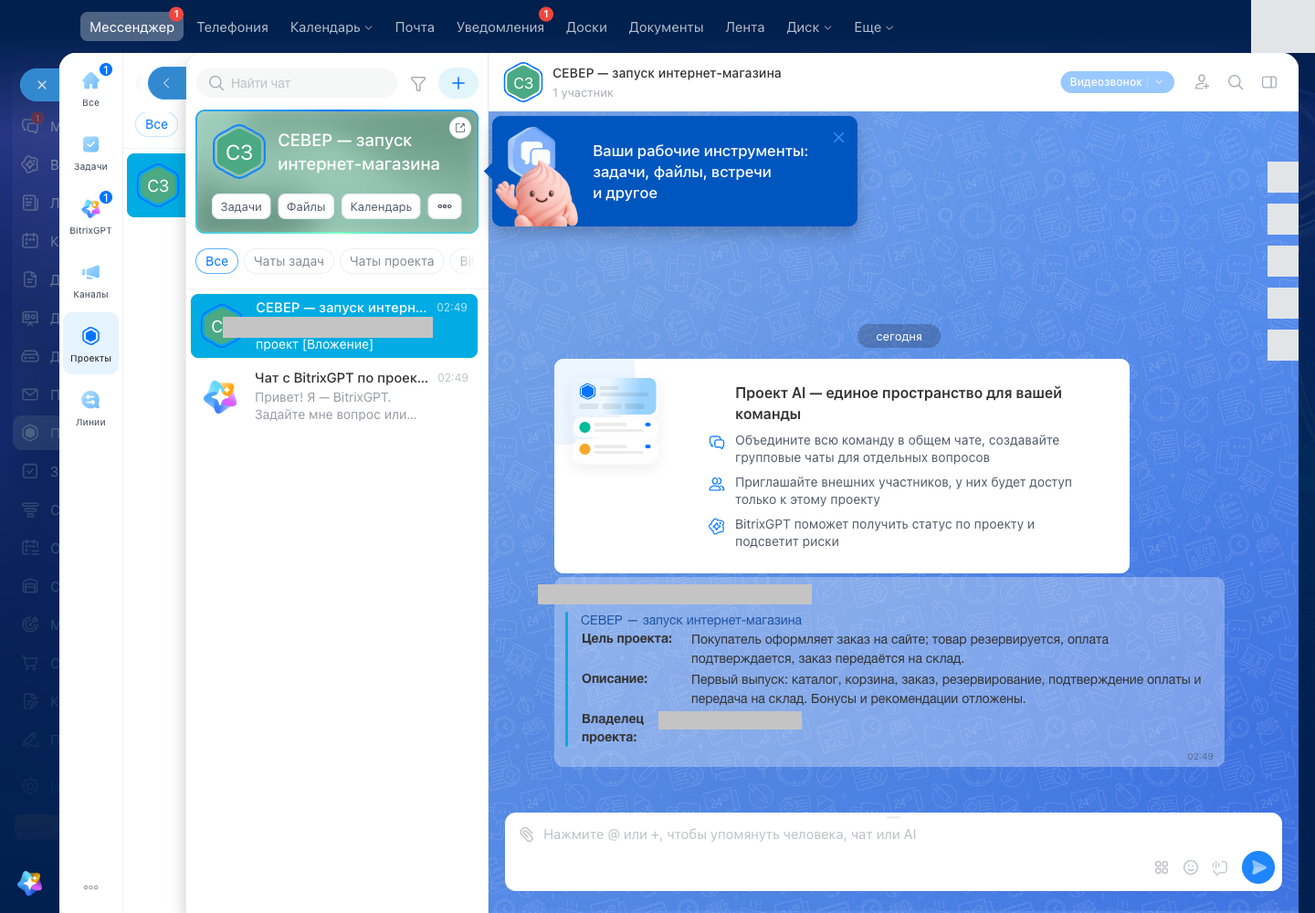
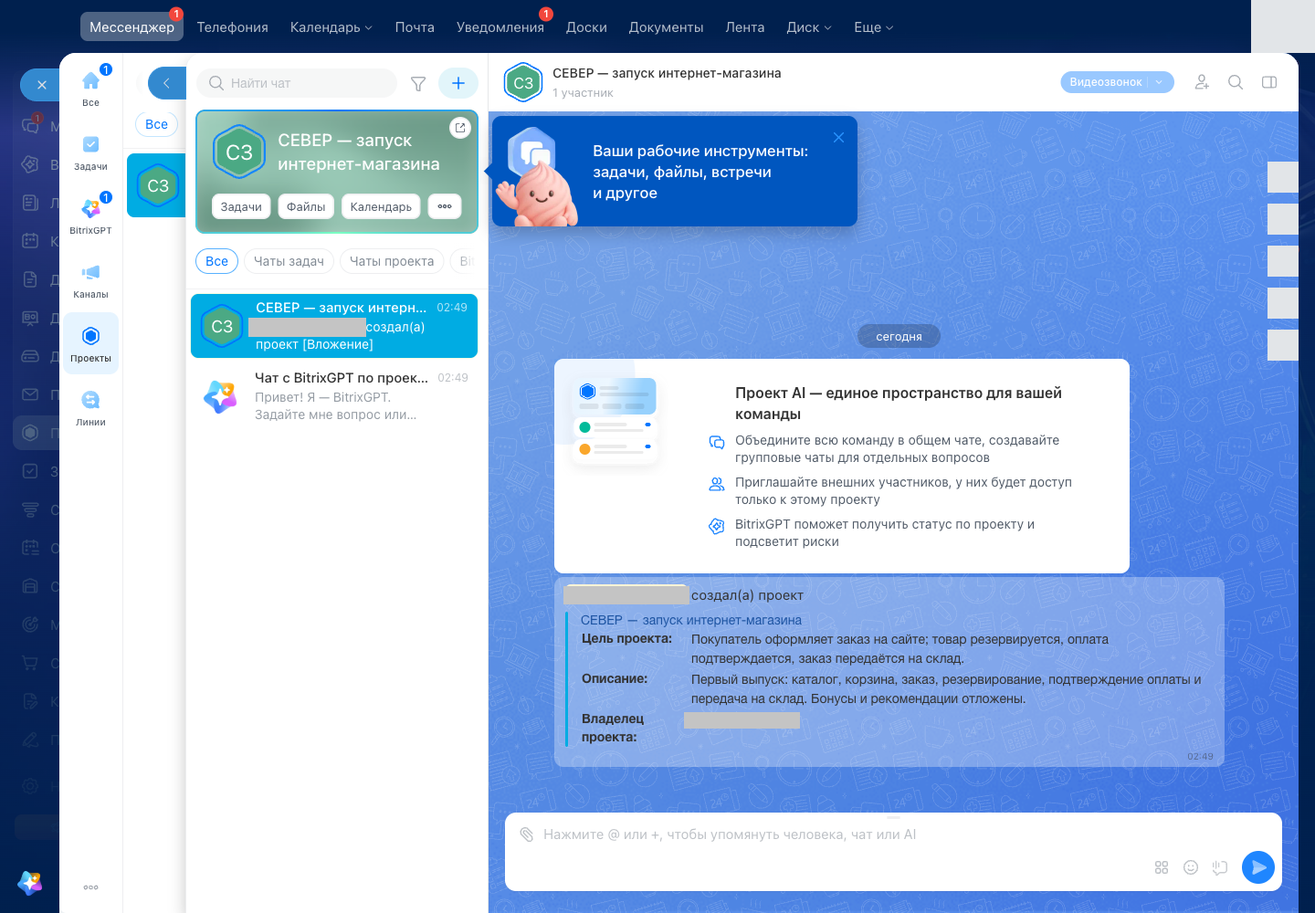
Refine Bitrix24 practice introduction and screenshot masking

diff --git a/upravlenie-programmnymi-proektami/lessons/02-bitrix24/index.html b/upravlenie-programmnymi-proektami/lessons/02-bitrix24/index.html
@@ -6,11 +6,13 @@
 <div class="running"><p class="eyebrow"><a href="../../index.html">Управление программными проектами</a></p><p class="running__folio">02 / 18 · 90 минут</p></div>
 <header class="chapter-head"><span class="chapter-num">Практика 2 · интернет-магазин «СЕВЕР»</span><h1>Проект, задача<br>и результат в Битрикс24</h1><p class="lead">Продолжаем запуск магазина рюкзаков. Создадим пространство проекта, опишем правила резервирования товара и сохраним результат в задаче.</p></header>
 <div class="practice-outcome"><span class="label">Результат занятия</span><div class="cards"><div><strong>Проект</strong><p>Цель и границы первого выпуска.</p></div><div><strong>Задача</strong><p>Условие, исполнитель и срок.</p></div><div><strong>Результат</strong><p>Правила и два проверяемых примера.</p></div></div></div>
-<nav class="contents" aria-label="Содержание"><b>Маршрут работы</b><ol><li><a href="#prepare">Доступ и тариф</a></li><li><a href="#project">Создание проекта</a></li><li><a href="#task">Постановка задачи</a></li><li><a href="#work">Выполнение и результат</a></li><li><a href="#finish">Завершение и поиск</a></li><li><a href="#extended">Расширенные возможности</a></li><li><a href="#practice">Самостоятельная работа</a></li><li><a href="#glossary">Словарь и источники</a></li></ol></nav>
-<section id="prepare"><h2><span class="sec">01</span>Доступ и тариф</h2>
-<p>В первой лекции два покупателя претендовали на последний рюкзак. Теперь оформим работу аналитика: нужно зафиксировать правила, по которым магазин резервирует товар. Проект объединит связанные задачи, а карточка задачи сохранит условия выполнения.</p>
-<div class="cards two"><div class="tile"><h3>Перед началом</h3><p>Нужен вход в согласованный с преподавателем портал Битрикс24. На кадрах уже выполнен вход. Регистрация, создание аккаунта и приглашение сотрудников в маршрут не входят.</p><p>При индивидуальной работе назначьте исполнителем себя. Для командной проверки используйте уже добавленного участника.</p></div><div class="tile"><h3>Что проверено</h3><p>Кадры сняты 23.11.2026 в портале с активным деморежимом. Официальная тарифная страница включает «Задачи и Проекты» в бесплатный план. Доступность каждого показанного элемента на бесплатном плане отдельно не подтверждена.</p><p>Демо оставлено включённым: интерфейс предупреждает, что повторная активация после отключения невозможна. Покупка тарифа для занятия не требуется.</p></div></div>
-<p>Названия элементов могут меняться после обновлений. Если нужной функции нет или появляется предложение оплаты, зафиксируйте отличие и согласуйте дальнейший шаг с преподавателем. Сначала создадим закрытое пространство для работы над магазином.</p></section>
+<nav class="contents" aria-label="Содержание"><b>Маршрут работы</b><ol><li><a href="#prepare">Знакомство и регистрация</a></li><li><a href="#project">Создание проекта</a></li><li><a href="#task">Постановка задачи</a></li><li><a href="#work">Выполнение и результат</a></li><li><a href="#finish">Завершение и поиск</a></li><li><a href="#extended">Расширенные возможности</a></li><li><a href="#practice">Самостоятельная работа</a></li><li><a href="#glossary">Словарь и источники</a></li></ol></nav>
+<section id="prepare"><h2><span class="sec">01</span>Битрикс24: знакомство и регистрация</h2>
+<p>В первой лекции два покупателя претендовали на последний рюкзак. Теперь оформим работу аналитика: зафиксируем правила резервирования товара.</p>
+<div class="service-intro"><img class="service-logo" src="../01-vvedenie/assets/bitrix24.svg" alt="Битрикс24" width="174" height="33"><p>Битрикс24 — сервис для совместной работы. В нём команда создаёт проекты, назначает задачи, задаёт сроки и обсуждает результаты. У проекта есть общее пространство, а у каждой задачи — карточка с условиями и перепиской.</p></div>
+<p><strong>Перед началом зарегистрируйтесь на <a href="https://www.bitrix24.ru/">сайте Битрикс24</a>.</strong> Если преподаватель выдал приглашение в общий портал, используйте его. Портал — пространство вашей команды в сервисе. Для самостоятельной работы создайте свой портал при регистрации.</p>
+<p>На кадрах вход уже выполнен. При индивидуальной работе назначайте исполнителем себя. В общем портале используйте свою учётную запись и согласуйте исполнителя с преподавателем.</p>
+<p>Для занятия не нужно подключать платные услуги. Если сервис предлагает оплату или нужный элемент недоступен, обратитесь к преподавателю. После входа откройте портал и создайте проект.</p></section>
 <section id="project"><h2><span class="sec">02</span>Создание проекта</h2><p>У магазина есть общий результат: покупатель оформляет заказ, а склад получает оплаченный товар к отгрузке. Запишем эту цель и состав первого выпуска в проекте.</p><ol class="steps"><li><b>Откройте «Проекты»</b><p>В левом меню найдите раздел «Проекты» и откройте его.</p><figure class="shot"><a href="assets/01-projects-menu.png" target="_blank" rel="noopener"><img src="assets/01-projects-menu.png" alt="Откройте «Проекты»" width="1440" height="1000" loading="lazy"></a><figcaption><strong>Откройте «Проекты»</strong> Красная рамка показывает пункт навигации. Нажмите изображение, чтобы открыть исходный размер.</figcaption></figure></li><li><b>Начните создание</b><p>На странице проектов нажмите «Создать».</p><figure class="shot"><a href="assets/02-create-project.png" target="_blank" rel="noopener"><img src="assets/02-create-project.png" alt="Начните создание" width="1440" height="1000" loading="lazy"></a><figcaption><strong>Начните создание</strong> Выделена кнопка над списком проектов. Нажмите изображение, чтобы открыть исходный размер.</figcaption></figure></li><li><b>Введите название</b><p>Укажите: <strong>СЕВЕР — запуск интернет-магазина</strong>.</p><figure class="shot"><a href="assets/03-project-name.png" target="_blank" rel="noopener"><img src="assets/03-project-name.png" alt="Введите название" width="1440" height="1000" loading="lazy"></a><figcaption><strong>Введите название</strong> Поле названия находится в верхней части формы. Надпись «Проекты AI» относится к текущему интерфейсу сервиса. Нажмите изображение, чтобы открыть исходный размер.</figcaption></figure></li><li><b>Запишите цель</b><p>В поле «Цель проекта» введите: <em>Покупатель оформляет заказ на сайте; товар резервируется, оплата подтверждается, заказ передаётся на склад.</em></p><figure class="shot"><a href="assets/04-project-goal.png" target="_blank" rel="noopener"><img src="assets/04-project-goal.png" alt="Запишите цель" width="1440" height="1000" loading="lazy"></a><figcaption><strong>Запишите цель</strong> Цель описывает ожидаемый результат для бизнеса. Нажмите изображение, чтобы открыть исходный размер.</figcaption></figure></li><li><b>Определите границы выпуска</b><p>В описание внесите: <em>Первый выпуск: каталог, корзина, заказ, резервирование, подтверждение оплаты и передача на склад. Бонусы и рекомендации отложены.</em></p><figure class="shot"><a href="assets/05-project-description.png" target="_blank" rel="noopener"><img src="assets/05-project-description.png" alt="Определите границы выпуска" width="1440" height="1000" loading="lazy"></a><figcaption><strong>Определите границы выпуска</strong> Описание отделяет согласованный объём от будущих пожеланий. Нажмите изображение, чтобы открыть исходный размер.</figcaption></figure></li><li><b>Проверьте доступ</b><p>Выберите тип «Закрытый», если он ещё не выбран. Поля добавления участников оставьте без изменений.</p><figure class="shot"><a href="assets/06-project-private.png" target="_blank" rel="noopener"><img src="assets/06-project-private.png" alt="Проверьте доступ" width="1440" height="1000" loading="lazy"></a><figcaption><strong>Проверьте доступ</strong> В форме указано: доступ к содержимому закрытого проекта предоставляется по приглашению. Нажмите изображение, чтобы открыть исходный размер.</figcaption></figure></li><li><b>Создайте проект</b><p>Нажмите «Создать проект». В этом маршруте новые приглашения не отправляются.</p><figure class="shot"><a href="assets/07-project-save.png" target="_blank" rel="noopener"><img src="assets/07-project-save.png" alt="Создайте проект" width="1440" height="1000" loading="lazy"></a><figcaption><strong>Создайте проект</strong> Кнопка находится внизу формы. Нажмите изображение, чтобы открыть исходный размер.</figcaption></figure></li><li><b>Проверьте созданный проект</b><p>Найдите название, цель и описание в сообщении о создании. Проверьте, что сохранился введённый текст.</p><figure class="shot"><a href="assets/08-project-created.png" target="_blank" rel="noopener"><img src="assets/08-project-created.png" alt="Проверьте созданный проект" width="1440" height="1000" loading="lazy"></a><figcaption><strong>Проверьте созданный проект</strong> Открыто пространство проекта. Здесь доступны задачи, файлы, календарь и обсуждение. Нажмите изображение, чтобы открыть исходный размер.</figcaption></figure></li></ol><p>Цель и границы проекта сохранены. Для выполнения отдельной части работы добавим задачу с конкретным результатом.</p></section>
 <section id="task"><h2><span class="sec">03</span>Постановка задачи</h2>
 <p>Название «Разобраться с остатками» оставляет много трактовок. Укажем, какой текст нужно подготовить и по чему его проверять. Постановщик формулирует работу, исполнитель отвечает за её выполнение. В индивидуальном примере обе роли выполняет один человек.</p>
@@ -29,7 +31,7 @@
 <li><b>Откройте выбор исполнителя</b><p>Нажмите имя в строке «Исполнитель».</p><figure class="shot"><a href="assets/13-executor-open.png" target="_blank" rel="noopener"><img src="assets/13-executor-open.png" alt="Откройте выбор исполнителя" width="1440" height="1000" loading="lazy"></a><figcaption><strong>Откройте выбор исполнителя</strong> Открывается выбор участника, которому поручается задача. Нажмите изображение, чтобы открыть исходный размер.</figcaption></figure></li>
 <li><b>Проверьте исполнителя</b><p>Найдите свою учётную запись. В этом примере она уже выбрана. Оставьте выбор и нажмите Esc, чтобы закрыть список.</p><figure class="shot"><a href="assets/14-executor-select.png" target="_blank" rel="noopener"><img src="assets/14-executor-select.png" alt="Проверьте исполнителя" width="1440" height="1000" loading="lazy"></a><figcaption><strong>Проверьте исполнителя</strong> Обезличенная строка соответствует текущему участнику. Реальные приглашения не нужны. Нажмите изображение, чтобы открыть исходный размер.</figcaption></figure></li>
 <li><b>Откройте крайний срок</b><p>Нажмите дату в строке «Крайний срок».</p><figure class="shot"><a href="assets/15-deadline-open.png" target="_blank" rel="noopener"><img src="assets/15-deadline-open.png" alt="Откройте крайний срок" width="1440" height="1000" loading="lazy"></a><figcaption><strong>Откройте крайний срок</strong> Срок, предложенный сервисом, нужно проверить перед сохранением. Нажмите изображение, чтобы открыть исходный размер.</figcaption></figure></li>
-<li><b>Задайте срок</b><p>Выберите «Завтра» для повторения примера. Если для работы согласован другой срок, используйте его.</p><figure class="shot"><a href="assets/16-deadline-select.png" target="_blank" rel="noopener"><img src="assets/16-deadline-select.png" alt="Задайте срок" width="1440" height="1000" loading="lazy"></a><figcaption><strong>Задайте срок</strong> В съёмке «Завтра» соответствует 24.11.2026. Время — 19:00. Дата относится к съёмке; для своей работы выберите согласованный срок. Нажмите изображение, чтобы открыть исходный размер.</figcaption></figure></li>
+<li><b>Задайте срок</b><p>Выберите «Завтра» для повторения примера. Если для работы согласован другой срок, используйте его.</p><figure class="shot"><a href="assets/16-deadline-select.png" target="_blank" rel="noopener"><img src="assets/16-deadline-select.png" alt="Задайте срок" width="1440" height="1000" loading="lazy"></a><figcaption><strong>Задайте срок</strong> Для своей работы выберите согласованный срок. Нажмите изображение, чтобы открыть исходный размер.</figcaption></figure></li>
 <li><b>Проверьте связь с проектом</b><p>В нижней части формы найдите «СЕВЕР — запуск интернет-магазина».</p><figure class="shot"><a href="assets/17-task-project.png" target="_blank" rel="noopener"><img src="assets/17-task-project.png" alt="Проверьте связь с проектом" width="1440" height="1000" loading="lazy"></a><figcaption><strong>Проверьте связь с проектом</strong> Связь с проектом уже подставлена, поскольку форма открыта из его задач. Нажмите изображение, чтобы открыть исходный размер.</figcaption></figure></li>
 <li><b>Сохраните задачу</b><p>Проверьте название, описание, исполнителя, срок и проект. Нажмите «Создать».</p><figure class="shot"><a href="assets/18-task-save.png" target="_blank" rel="noopener"><img src="assets/18-task-save.png" alt="Сохраните задачу" width="1440" height="1000" loading="lazy"></a><figcaption><strong>Сохраните задачу</strong> Кнопка сохраняет заполненную карточку. Нажмите изображение, чтобы открыть исходный размер.</figcaption></figure></li>
 <li><b>Найдите задачу в списке</b><p>После создания обновите страницу клавишей F5. Нажмите название задачи в списке проекта.</p><figure class="shot"><a href="assets/19-task-list.png" target="_blank" rel="noopener"><img src="assets/19-task-list.png" alt="Найдите задачу в списке" width="1440" height="1000" loading="lazy"></a><figcaption><strong>Найдите задачу в списке</strong> На кадре задача уже сохранена. Открытие названия возвращает к её условиям. Нажмите изображение, чтобы открыть исходный размер.</figcaption></figure></li>
@@ -49,36 +51,36 @@
 <li><b>Введите подготовленные правила</b><p>Вставьте текст результата и оба примера. До отправки проверьте условия снятия резерва.</p><figure class="shot"><a href="assets/23-result-filled.png" target="_blank" rel="noopener"><img src="assets/23-result-filled.png" alt="Введите подготовленные правила" width="1440" height="1000" loading="lazy"></a><figcaption><strong>Введите подготовленные правила</strong> В поле показан подготовленный текст. Длинное сообщение прокручивается внутри поля. Нажмите изображение, чтобы открыть исходный размер.</figcaption></figure></li>
 <li><b>Отправьте сообщение</b><p>Нажмите синюю кнопку отправки справа от поля ввода.</p><figure class="shot"><a href="assets/24-result-send.png" target="_blank" rel="noopener"><img src="assets/24-result-send.png" alt="Отправьте сообщение" width="1440" height="1000" loading="lazy"></a><figcaption><strong>Отправьте сообщение</strong> Рамка выделяет кнопку отправки сообщения. Нажмите изображение, чтобы открыть исходный размер.</figcaption></figure></li>
 <li><b>Проверьте сохранённый текст</b><p>Найдите сообщение в чате задачи. Убедитесь, что отправлены правила и два примера.</p><figure class="shot"><a href="assets/25-result-posted.png" target="_blank" rel="noopener"><img src="assets/25-result-posted.png" alt="Проверьте сохранённый текст" width="1440" height="1000" loading="lazy"></a><figcaption><strong>Проверьте сохранённый текст</strong> Результат работы сохранён как сообщение. Отдельный раздел сервиса «Результаты» в основном маршруте не используется. Нажмите изображение, чтобы открыть исходный размер.</figcaption></figure></li>
-</ol><p>В чате сохранено основание для проверки. Перед завершением сопоставим сообщение с исходными условиями задачи.</p></section>
+</ol><p>В чате сохранены правила и два примера. Перед завершением сопоставим сообщение с исходными условиями задачи.</p></section>
 <section id="finish"><h2><span class="sec">05</span>Завершение и поиск задачи</h2>
 <p>Для самопроверки прочитайте правила с позиции второго покупателя. Из текста должно следовать, почему заказ не подтверждается и когда покупка станет доступна снова. Таблица ниже показывает ожидаемые результаты двух примеров.</p>
 <div class="table-scroll"><table><thead><tr><th>Исходное условие</th><th>Ожидаемый результат</th></tr></thead><tbody><tr><td>Один рюкзак, два одновременных оформления</td><td>Один успешный резерв. Второму покупателю — сообщение о недоступности.</td></tr><tr><td>Оплаты нет, 15 минут истекли</td><td>Резерв снят. Товар доступен для нового заказа.</td></tr></tbody></table></div>
 <p>Оба случая описаны однозначно. Можно отметить работу завершённой и проверить, где она теперь отображается.</p><ol class="steps">
 <li><b>Завершите задачу</b><p>После самопроверки нажмите «Завершить» внизу карточки.</p><figure class="shot"><a href="assets/28-task-complete.png" target="_blank" rel="noopener"><img src="assets/28-task-complete.png" alt="Завершите задачу" width="1440" height="1000" loading="lazy"></a><figcaption><strong>Завершите задачу</strong> В этом примере постановщик и исполнитель — один участник. Нажмите изображение, чтобы открыть исходный размер.</figcaption></figure></li>
-<li><b>Проверьте завершение</b><p>Убедитесь, что в строке «Статус» написано «Завершена».</p><figure class="shot"><a href="assets/29-task-completed.png" target="_blank" rel="noopener"><img src="assets/29-task-completed.png" alt="Проверьте завершение" width="1440" height="1000" loading="lazy"></a><figcaption><strong>Проверьте завершение</strong> Отметка фиксирует завершение исполнителем. Независимая проверка другим человеком ещё не проведена. Нажмите изображение, чтобы открыть исходный размер.</figcaption></figure></li>
+<li><b>Проверьте завершение</b><p>Убедитесь, что в строке «Статус» написано «Завершена».</p><figure class="shot"><a href="assets/29-task-completed.png" target="_blank" rel="noopener"><img src="assets/29-task-completed.png" alt="Проверьте завершение" width="1440" height="1000" loading="lazy"></a><figcaption><strong>Проверьте завершение</strong> Статус показывает, что исполнитель завершил работу. Проверка результата другим участником — отдельный шаг. Нажмите изображение, чтобы открыть исходный размер.</figcaption></figure></li>
 <li><b>Снимите фильтр незавершённой работы</b><p>Вернитесь к списку проекта: закройте карточку крестиком на её левом краю. У фильтра «В работе» нажмите маленький крестик.</p><figure class="shot"><a href="assets/30-filter-clear.png" target="_blank" rel="noopener"><img src="assets/30-filter-clear.png" alt="Снимите фильтр незавершённой работы" width="1440" height="1000" loading="lazy"></a><figcaption><strong>Снимите фильтр незавершённой работы</strong> Фильтр может скрывать завершённую задачу. Красная рамка выделяет его удаление. Нажмите изображение, чтобы открыть исходный размер.</figcaption></figure></li>
-<li><b>Найдите завершённую задачу</b><p>В общем списке найдите задачу по названию и проверьте её статус.</p><figure class="shot"><a href="assets/31-final-list.png" target="_blank" rel="noopener"><img src="assets/31-final-list.png" alt="Найдите завершённую задачу" width="1440" height="1000" loading="lazy"></a><figcaption><strong>Найдите завершённую задачу</strong> Снятие фильтра меняет выборку списка. Сама задача сохраняется в проекте. Нажмите изображение, чтобы открыть исходный размер.</figcaption></figure></li>
-</ol><p>При командной работе другой участник читает результат и оставляет замечания или подтверждение. В индивидуальном маршруте предъявите преподавателю карточку и текст правил. Завершение задачи само по себе не подтверждает качество требований или правильность будущего кода.</p></section>
+<li><b>Найдите завершённую задачу</b><p>В списке без фильтра «В работе» найдите задачу по названию и проверьте её статус.</p><figure class="shot"><a href="assets/31-final-list.png" target="_blank" rel="noopener"><img src="assets/31-final-list.png" alt="Найдите завершённую задачу" width="1440" height="1000" loading="lazy"></a><figcaption><strong>Найдите завершённую задачу</strong> После снятия фильтра в списке отображаются и завершённые задачи. Сама задача сохраняется в проекте. Нажмите изображение, чтобы открыть исходный размер.</figcaption></figure></li>
+</ol><p>При командной работе другой участник читает результат и оставляет замечания или подтверждение. При индивидуальной работе покажите преподавателю карточку и текст правил. Завершение задачи само по себе не подтверждает качество требований или правильность будущего кода.</p></section>
 <section id="extended"><h2><span class="sec">06</span>Расширенные возможности Битрикс24</h2>
-<p>Кроме карточки и списка в портале доступны другие инструменты. Этот обзор снят в деморежиме. Показанные функции не включены в обязательные условия выполнения и не заявляются как гарантированно бесплатные или исключительно платные.</p>
+<p>Кроме карточки и списка в портале доступны другие инструменты. На кадрах включён деморежим — временный доступ к расширенным функциям. Их доступность зависит от тарифа. Для выполнения задания достаточно основного маршрута.</p>
 <h3>Диаграмма Ганта: работа во времени</h3><p>Для нескольких задач бывает нужно сравнить сроки и последовательность выполнения. Диаграмма Ганта размещает задачи вдоль временной шкалы. Откроем соответствующее представление над списком.</p>
 <figure class="shot"><a href="assets/30-gantt-open.png" target="_blank" rel="noopener"><img src="assets/30-gantt-open.png" alt="Переход к представлению «Гант»." width="1440" height="1000" loading="lazy"></a><figcaption><strong>Переход к представлению «Гант».</strong> Выделена вкладка над списком задач. На этом кадре ещё действует фильтр «В работе». Нажмите изображение, чтобы открыть исходный размер.</figcaption></figure>
 <p>На следующем кадре открыта временная шкала, но строк задач нет. Вверху по-прежнему установлен фильтр «В работе». Этот снимок показывает устройство представления; размещение завершённой задачи на шкале здесь не подтверждено.</p>
 <figure class="shot"><a href="assets/32-gantt-task.png" target="_blank" rel="noopener"><img src="assets/32-gantt-task.png" alt="Пустое представление «Гант» с фильтром «В работе»." width="1440" height="1000" loading="lazy"></a><figcaption><strong>Временная шкала без строк задач.</strong> Слева расположена область названий, справа — календарная сетка. Фильтр «В работе» остаётся активным. Нажмите изображение, чтобы открыть исходный размер.</figcaption></figure>
 <p>Чтобы найти завершённую задачу, используйте проверенный маршрут предыдущего раздела: снимите фильтр и откройте список. Планирование работ на шкале и настройка зависимостей в этой практике не проверены.</p>
 <h3>BitrixGPT: помощь в пространстве проекта</h3><p>В созданном проекте также показан чат с BitrixGPT — встроенным AI-помощником. Найдите его на кадре пространства проекта ниже. По тексту интерфейса он предлагает получать статус и выявлять риски проекта.</p>
-<figure class="shot"><a href="assets/08-project-created.png" target="_blank" rel="noopener"><img src="assets/08-project-created.png" alt="Чат BitrixGPT в пространстве проекта." width="1440" height="1000" loading="lazy"></a><figcaption><strong>Чат BitrixGPT в пространстве проекта.</strong> Это обзор доступного пункта интерфейса. Запросы помощнику в этом маршруте не отправлялись. Нажмите изображение, чтобы открыть исходный размер.</figcaption></figure>
-<p>Наличие пункта меню не подтверждает доступность функции на любом тарифе. Ответ помощника требует проверки по самим задачам и договорённостям. Для основной работы на занятии достаточно сохранённого описания и результата задачи.</p>
-<details class="more"><summary>Что ещё входит в план знакомства с расширенными функциями</summary><ul><li>Зависимости и планирование нескольких задач на диаграмме Ганта.</li><li>Автоматизация: действия при переходе задачи между стадиями.</li><li>Обобщение состояния проекта с помощью BitrixGPT.</li></ul><p>Это план дальнейшей проверки. Настройка роботов, зависимости и качество ответов AI в этом материале не проверены. Перед отдельной практикой нужно уточнить тариф и снять полный маршрут каждой функции.</p></details>
+<figure class="shot"><a href="assets/08-project-created.png" target="_blank" rel="noopener"><img src="assets/08-project-created.png" alt="Чат BitrixGPT в пространстве проекта." width="1440" height="1000" loading="lazy"></a><figcaption><strong>Чат BitrixGPT в пространстве проекта.</strong> На кадре показан чат помощника. В этой практике запросы ему не отправляются. Нажмите изображение, чтобы открыть исходный размер.</figcaption></figure>
+<p>Наличие пункта меню не подтверждает доступность функции на любом тарифе. Ответ помощника требует проверки по самим задачам и договорённостям. В этой практике сохраните описание и результат задачи; обращения к помощнику не требуются.</p>
+<details class="more"><summary>Какие возможности можно изучить дополнительно</summary><ul><li>Зависимости и планирование нескольких задач на диаграмме Ганта.</li><li>Автоматизация: действия при переходе задачи между стадиями.</li><li>Обобщение состояния проекта с помощью BitrixGPT.</li></ul><p>Эти действия в практику не входят. Перед их использованием проверьте доступность на своём тарифе.</p></details>
 <p>Основной результат занятия уже получен без настройки автоматизации. Теперь применим тот же порядок постановки к другой части первого выпуска магазина.</p></section>
 <section id="practice"><h2><span class="sec">07</span>Самостоятельная работа</h2>
 <p>В том же проекте создайте ещё две задачи. Повторите маршрут раздела «Постановка задачи»: название, условие, результат, критерий проверки, исполнитель и срок. Правила резервирования останутся исходными данными для одной из новых задач.</p>
 <div class="cards two"><div class="tile"><span class="label">Задача 2</span><h3>Описать состав карточки рюкзака</h3><p>Результат: список данных о товаре с примером заполнения. Укажите название, цену, изображение, вариант цвета и доступный остаток.</p><p>Критерий: по описанию можно составить карточку одного товара без уточнения обязательных полей.</p></div><div class="tile"><span class="label">Задача 3</span><h3>Подготовить проверки последнего товара</h3><p>Результат: три проверки по правилам резервирования. Для каждой укажите исходные данные, действие и ожидаемый результат.</p><p>Критерий: проверены одновременная покупка, истечение резерва и подтверждение оплаты в пределах срока.</p></div></div>
 <p>Оставьте новые задачи незавершёнными, пока их результаты не подготовлены. При выборе сроков учитывайте, что проверки опираются на согласованные правила резервирования.</p>
-<div class="task-brief"><span class="label">Что предъявить</span><ul><li>Проект с сохранённой целью и границами первого выпуска.</li><li>Три задачи с исполнителем, сроком и критериями проверки.</li><li>Одну завершённую задачу с текстом результата и двумя примерами.</li><li>Подтверждение проверки другим участником или явную отметку, что проведена только самопроверка.</li></ul></div>
+<div class="task-brief"><span class="label">Что предъявить</span><ul><li>Проект с сохранённой целью и границами первого выпуска.</li><li>Три задачи с исполнителем, сроком и критериями проверки.</li><li>Одну завершённую задачу с текстом результата и двумя примерами.</li><li>Комментарий другого участника с подтверждением или замечаниями. При индивидуальной работе — отметку о самопроверке.</li></ul></div>
 <p>Проект теперь содержит исходные договорённости, выполненную работу и очередь следующих задач. Эти записи станут основой дальнейшего планирования выпуска.</p></section>
 <section id="glossary"><h2><span class="sec">08</span>Короткий словарь</h2>
-<dl class="glossary"><div class="gl"><dt>Проект</dt><dd>Ограниченная работа по получению согласованного результата. В Битрикс24 — также пространство связанных задач.<span class="micro">СЕВЕР → правила резерва · карточка товара · проверки</span></dd></div><div class="gl"><dt>Задача</dt><dd>Зафиксированная работа с исполнителем и ожидаемым результатом.<span class="micro">Описать правила → текст + два примера</span></dd></div><div class="gl"><dt>Постановщик / исполнитель</dt><dd>Кто поручил работу / кто отвечает за выполнение. Здесь обе роли совмещены.<span class="micro">Условие → выполнение → сообщение с результатом</span></dd></div><div class="gl"><dt>Крайний срок</dt><dd>Согласованная дата и время завершения.<span class="micro">На кадре: 24.11.2026, 19:00</span></dd></div><div class="gl"><dt>Критерий проверки</dt><dd>Условие, по которому можно проверить результат.<span class="micro">Остаток 1 + два запроса → один резерв</span></dd></div><div class="gl"><dt>Статус / стадия</dt><dd>Статус показывает выполнение задачи; стадия — её положение в настроенном процессе проекта.<span class="micro">Статус «Завершена» ≠ автоматическая смена стадии</span></dd></div><div class="gl"><dt>Резерв товара</dt><dd>Временное закрепление товара за оформляемым заказом.<span class="micro">1 доступен → 1 в резерве → оплата или снятие</span></dd></div><div class="gl"><dt>Фильтр</dt><dd>Условие отбора записей в списке.<span class="micro">«В работе» → завершённая задача скрыта</span></dd></div><div class="gl"><dt>Диаграмма Ганта</dt><dd>Представление задач на временной шкале. <a href="#extended">Реальный кадр</a> приведён в обзоре.<span class="micro">Задача → начало ── работа ── завершение</span></dd></div><div class="gl"><dt>Деморежим / AI</dt><dd>Временный доступ к расширенным возможностям / искусственный интеллект. AI-помощник BitrixGPT показан в пространстве проекта.<span class="micro">Записи проекта → ответ помощника → проверка человеком</span></dd></div></dl>
-<details class="more"><summary>Источники и границы проверки</summary><ul class="sources"><li><a href="https://www.bitrix24.ru/prices/">Официальные тарифы Битрикс24</a>, обращение 23.11.2026. Подтверждено включение раздела «Задачи и Проекты» в бесплатный план. Это не подтверждение бесплатности всех его элементов.</li><li>Реальный интерфейс авторизованного демонстрационного портала Битрикс24, 23.11.2026. Сняты создание закрытого проекта, постановка задачи, выбор срока, начало работы, отправка сообщения, завершение и снятие фильтра.</li><li>Деморежим оставлен активным после чтения предупреждения о невозможности повторного включения. Тариф не менялся, платные услуги не подключались.</li><li>Независимая приёмка другим участником, настройка автоматизации и зависимости задач не проверены. Образец резервирования — принятое для занятия правило; проверка действующего магазина не выполнялась.</li></ul></details></section>
+<dl class="glossary"><div class="gl"><dt>Проект</dt><dd>Ограниченная работа по получению согласованного результата. В Битрикс24 — также пространство связанных задач.<span class="micro">СЕВЕР → правила резерва · карточка товара · проверки</span></dd></div><div class="gl"><dt>Задача</dt><dd>Зафиксированная работа с исполнителем и ожидаемым результатом.<span class="micro">Описать правила → текст + два примера</span></dd></div><div class="gl"><dt>Постановщик / исполнитель</dt><dd>Кто поручил работу / кто отвечает за выполнение. Здесь обе роли совмещены.<span class="micro">Условие → выполнение → сообщение с результатом</span></dd></div><div class="gl"><dt>Крайний срок</dt><dd>Согласованная дата и время завершения.<span class="micro">Дата и время → завершение работы</span></dd></div><div class="gl"><dt>Критерий проверки</dt><dd>Условие, по которому можно проверить результат.<span class="micro">Остаток 1 + два запроса → один резерв</span></dd></div><div class="gl"><dt>Статус / стадия</dt><dd>Статус показывает выполнение задачи; стадия — её положение в настроенном процессе проекта.<span class="micro">Статус «Завершена» ≠ автоматическая смена стадии</span></dd></div><div class="gl"><dt>Резерв товара</dt><dd>Временное закрепление товара за оформляемым заказом.<span class="micro">1 доступен → 1 в резерве → оплата или снятие</span></dd></div><div class="gl"><dt>Фильтр</dt><dd>Условие отбора записей в списке.<span class="micro">«В работе» → завершённая задача скрыта</span></dd></div><div class="gl"><dt>Диаграмма Ганта</dt><dd>Представление задач на временной шкале. <a href="#extended">Реальный кадр</a> приведён в обзоре.<span class="micro">Задача → начало ── работа ── завершение</span></dd></div><div class="gl"><dt>Деморежим / AI</dt><dd>Временный доступ к расширенным возможностям / искусственный интеллект. AI-помощник BitrixGPT показан в пространстве проекта.<span class="micro">Записи проекта → ответ помощника → проверка человеком</span></dd></div></dl>
+<details class="more"><summary>Источники и особенности интерфейса</summary><ul class="sources"><li><a href="https://www.bitrix24.ru/">Сайт Битрикс24 и регистрация</a>.</li><li><a href="https://www.bitrix24.ru/prices/">Официальные тарифы Битрикс24</a>. В бесплатный план включён раздел «Задачи и Проекты». Состав отдельных функций нужно сверять с текущим тарифом.</li><li>Кадры сняты в реальном портале с активным деморежимом. Поэтому набор элементов может отличаться от бесплатного плана. Имена, аватары и другие персональные данные участников скрыты.</li><li>Результат задачи сохраняется сообщением в чате. Отдельный раздел «Результаты», автоматизация и зависимости задач в этой практике не используются.</li><li>Правило о резерве на 15 минут принято для разбираемого примера. Проверка работающего магазина в задание не входит.</li></ul></details></section>
 <nav class="pager" aria-label="Навигация по дисциплине"><a href="../01-vvedenie/index.html">← Продукт и проект</a><a href="../../index.html">К меню дисциплины →</a></nav>
 </main></div></div></body></html>

diff --git a/upravlenie-programmnymi-proektami/lessons/02-bitrix24/practice.css b/upravlenie-programmnymi-proektami/lessons/02-bitrix24/practice.css
@@ -8,3 +8,5 @@
 section{scroll-margin-top:20px}.glossary{margin:22px 0}.sources{overflow-wrap:anywhere}.table-scroll{max-width:100%}
 @media(max-width:700px){.steps>li{padding:54px 12px 14px}.steps>li::before{top:14px;left:12px}.steps>li>b:first-child{font-size:20px}.task-brief,.practice-outcome{padding:17px}.copy-text{font-size:15px}.shot figcaption{padding:12px;font-size:13px}.practice-outcome .cards{gap:18px}}
 @media print{.steps>li{break-inside:auto}.shot{break-inside:avoid}.shot img{max-height:75vh;object-fit:contain}.contents{display:none}}
+
+.service-intro{margin:24px 0;padding:24px;border:1px solid var(--rule);background:#fff}.service-logo{display:block;width:174px;max-width:100%;height:auto;margin-bottom:20px}.service-intro p{margin-bottom:0}

diff --git a/docs/project-context/CURRENT.md b/docs/project-context/CURRENT.md
@@ -4,6 +4,8 @@
 
 ## Управление программными проектами
 
+Практика `lessons/02-bitrix24/` отредактирована по замечаниям: вступление — подводка о последнем рюкзаке, локальный логотип, описание сервиса и ссылка на регистрацию; календарные даты из HTML удалены. В `08-project-created.png` и `09-project-tasks.png` сужены OCR-маски имён; прочие изображения сохранены, чтобы не раскрыть аватары. Широкие первичные Playwright-маски уже встроены в исходники: уменьшить их можно только повторной съёмкой. Точная OCR-версия в `/private/tmp/management-bitrix-work/precise-captures/` для остальных кадров НЕ принята (открывает аватары). Итоговая ручная вычитка A–E и Chromium 1280/390/320 px выполнены: 33 изображения с логотипом, битых изображений/якорей и переполнения нет. Календарные подписи реального интерфейса на PNG сохранены.
+
 23.11.2026, практика Битрикс24 готова к публикации: `upravlenie-programmnymi-proektami/lessons/02-bitrix24/index.html`, `practice.css`, 31 реальный обезличенный PNG (32 включения). Маршрут: закрытый проект «СЕВЕР» → задача → исполнитель и срок → выполнение → сообщение с правилами → завершение → снятие фильтра и список. Каталог дисциплины связан с практикой, граф обновлён. Вычитка A–E выполнена; Chromium 1280/390/320 px: изображения и якоря исправны, ошибок и горизонтального переполнения нет. Съёмка 23.11.2026 в активном деморежиме: бесплатность каждого элемента не подтверждена. Гант показан только как пустая шкала с действующим фильтром, размещение задачи и зависимости не проверены. BitrixGPT — обзор пункта интерфейса без отправки запросов. Независимая приёмка другим участником не проверена. Исходники и проверки прошлой съёмки: `/private/tmp/management-bitrix-work/` (в Git не включать).
 
 23.11.2026: создана дисциплина `upravlenie-programmnymi-proektami/` на 18 пар в книжном оформлении Angular/React. Готова первая лекция `lessons/01-vvedenie/index.html` на 90 минут: продукт/проект, роли, ограничения, Waterfall, Agile, Scrum, Kanban, шесть инструментов с локальными логотипами, сокращения, самопроверка и план пары. Сквозной пример — сервис заявок колледжа. Битрикс24 начинается со второй пары; практика подготовлена, см. запись выше. Ядро курса опирается на бесплатные задачи/проекты; доступность диаграммы Ганта, Scrum, автоматизации и отчётов надо проверять в действующем портале, платное демо не считать бесплатным тарифом. Вычитка A–E выполнена; 244 предложения, средняя длина 9,3 слова, длинных >25 слов нет. Chrome 1280/390/320 px: шесть логотипов, якоря, словарь и навигация исправны, переполнения страницы нет. Добавлены карточка главного каталога и область смыслового графа.
